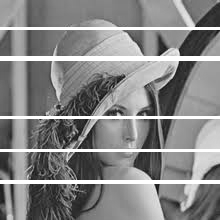
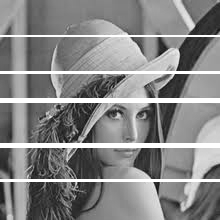
update horizontal interstripation

diff --git a/edu/slavik/interstripation/core/modified/HorizontalInterstripation.py b/edu/slavik/interstripation/core/modified/HorizontalInterstripation.py
@@ -34,7 +34,7 @@ def leftDelta(surface, stripe, x, y):
     r = distance(x, stripe)
     res = 0
 
-    for i in range(r):
+    for i in range(r + 1):
         res += surface.matrix[stripe.startAt - i, y]
 
     return res / (r + 1)
@@ -44,7 +44,7 @@ def rightDelta(surface, stripe, x, y):
     r = distance(x, stripe)
     res = 0
 
-    for i in range(-r, r):
+    for i in range(r + 1):
         res += surface.matrix[stripe.endAt + i, y]
 
     return res / (r + 1)
